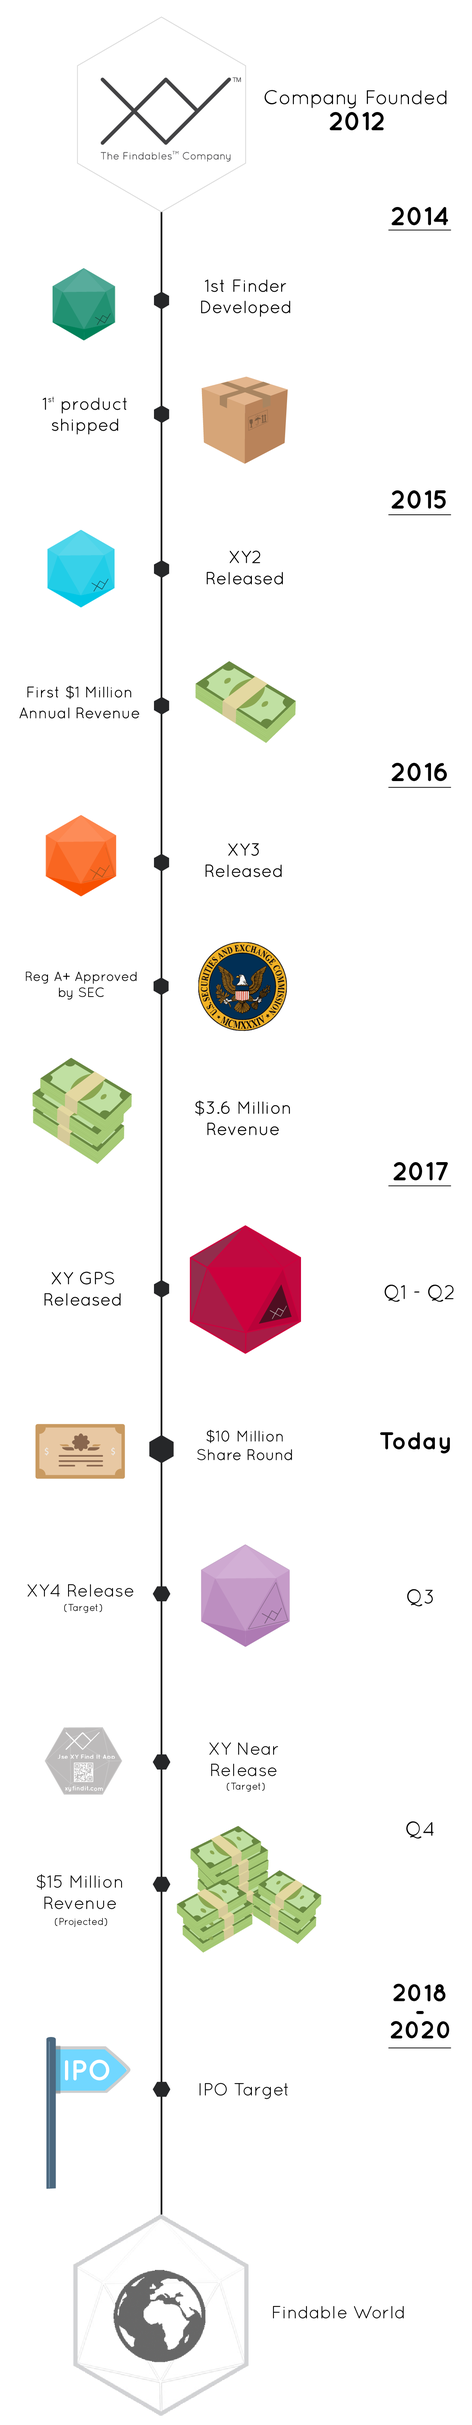
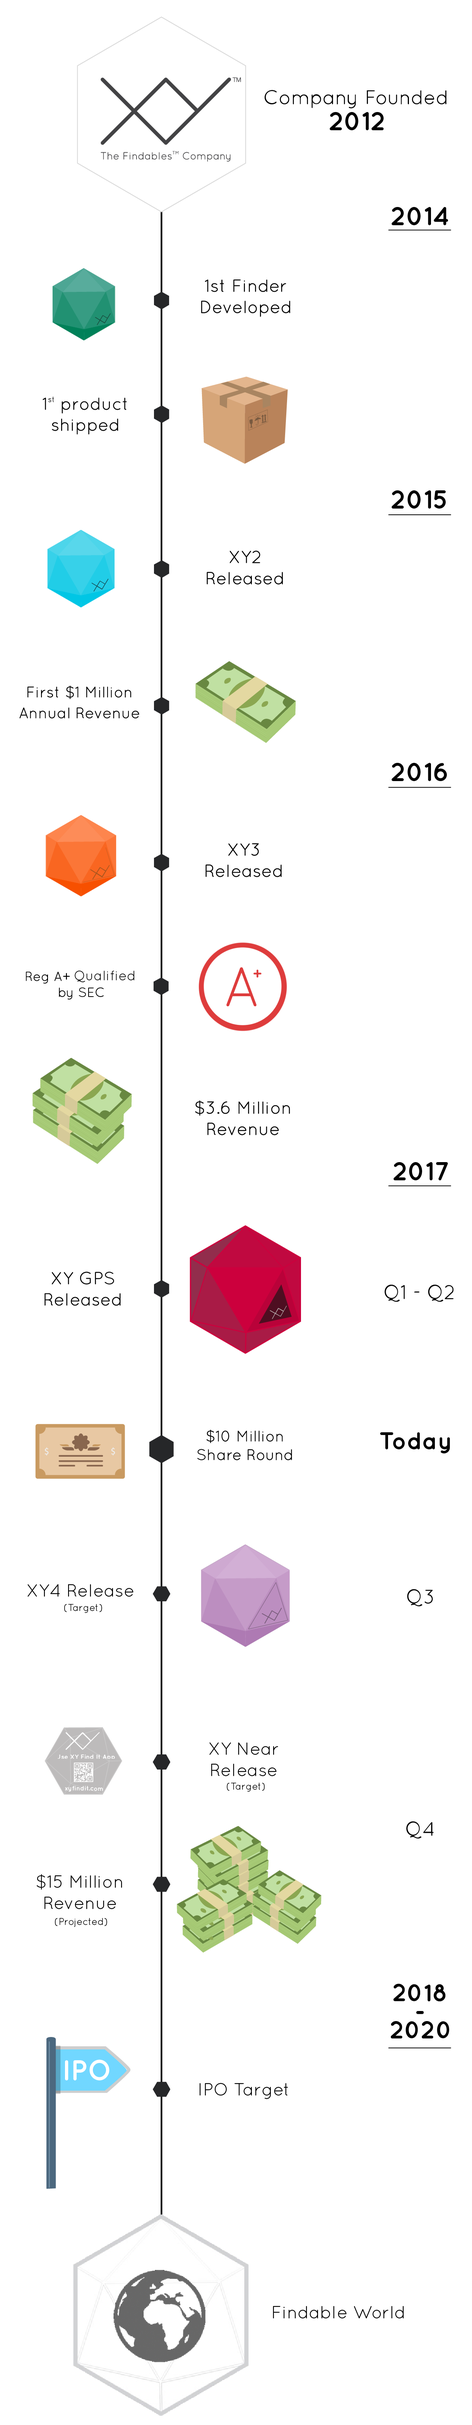
SEC compliance

Changed region(s): [[0.4049, 0.374, 0.623, 0.4364]]

diff --git a/our-story/index.html b/our-story/index.html
@@ -1,4 +1,4 @@
-<html>
+<html>
 
 <head>
     <meta charset="utf-8">
@@ -9,7 +9,7 @@
     <meta name="description" content="Read the XY The Findables Company success story today and invest!">
     <meta property="og:url" content="https://www.xyfindables.com/our-story/">
     <meta property="og:title" content="Get the story on XY The Findables Company: San Diego Grown and Now Ready For Investment!">
-    <meta property="og:description" content="Learn about the success story of XY The Findables Company: born and raised in San Diego, Findables Market leader, SEC Approved, and ready now for your Investment. When you invest, you get the chance to join a growing tech company on its journey to IPO.">
+    <meta property="og:description" content="Learn about the success story of XY The Findables Company: born and raised in San Diego, Findables Market leader, SEC qualified, and ready now for your Investment. When you invest, you get the chance to join a growing tech company on its journey to IPO.">
     <meta property="og:image" content="https://www.xyfindables.com/img/share/share_img.jpg">
     <meta property="fb:app_id" content="753748267978472" />
 
@@ -327,7 +327,7 @@
                     <div id="storycontent" style="display:none;">
                         <h1 style="margin-top:0px; !important; ">Our Story</h1>
                         <hr>
-                        <div style="line-height:30px; font-size: 15px;">
+                        <div style="line-height:30px; font-size: 17px;">
                             <p>
                                 <span class="bold">XY Findables</span> is a technology startup in downtown San Diego, California. We released our first product, the XY Find It, three years ago on Kickstarter, and it was a
                                 <span class="bold">HUGE</span> success! We raised over $200,000 and were one of the most popular for the year. The first year of manufacturing, we did
@@ -338,22 +338,18 @@
                             <p style="padding-top:7px;"> Now we’re on our third generation XY3, and we just expanded our product line to include the XY GPS, a tracking device that can find the things you love around the world. We’re projected to do
                                 <span class="bold">$15 million</span> in revenue this year alone. We want to keep expanding and developing our product line, so we took the next step: investments.
                             </p>
-                            <p style="padding-top:7px;"> We’re in our growth phase and it’s time for us to find investors. Here’s where you come in! Normally, startups are legally required to go to millionaires, like Mark Cuban or Bill Gates. It wasn’t fair, because the everyday
-                                person wasn’t able to invest! However, startups who are approved by the government, can sell pre-public stock to the everyday investor. We’ve been approved by the
-                                <span class="bold">SEC</span>, the government agency that regulates all publicly traded companies, like Facebook, Snapchat, and Twitter. Now, we can begin selling mini-IPO shares to <span class="bold">everyone</span>, and
-                                we are excited to become a customer-owned company. We hope to go public in the next 2-3 years, and you can help it.
+                            <p style="padding-top:7px;"> We’re in our growth phase and it’s time for us to find investors. Here’s where you come in! Normally, startups go to millionaires like Mark Cuban or Bill Gates. It wasn’t fair, because the everyday
+                                person wasn’t able to get in and invest! However, startups who are qualified by the government can sell pre-public stock to the everyday investor. We’ve been qualified by the
+                                <span class="bold">SEC</span>, the government agency that regulates all publicly traded companies, and we are now able to sell mini-IPO shares to <span class="bold">everyone</span>. We are excited to become a customer-owned company and hope to go public in the next 2-3 years with your help.
                             </p>
                         </div>
                     </div>
 
                     <div id="timelinecontent" style="display:none;">
                         <h1 style="margin-top:0px; !important">Company Timeline</h1>
-
-                        <div class="col-sm-12" style="padding-left:0px !important;">
                             <hr>
-                        </div>
 
-                        <p> Our company has been growing in San Diego since 2012, and from the very first day, our goal has been to make the world findable. Check out our progression below, from founding to xy1 to our future goal of IPO. Our journey has been
+                        <p style="font-size:17px; line-height:30px;"> Our company has been growing in San Diego since 2012, and from the very first day, our goal has been to make the world findable. Check out our progression below, from founding to xy1 to our future goal of IPO. Our journey has been
                             incredible so far, and we'd love to have you join us as we move towards a mutually profitable and rewarding finish line.
                         </p>
 

diff --git a/offering/index.html b/offering/index.html
@@ -8,8 +8,8 @@
     <meta name="viewport" content="width=device-width, initial-scale=1">
     <meta name="description" content="See the SEC's XY Findables Filing for Investment!">
     <meta property="og:url" content="https://www.xyfindables.com/offering/">
-    <meta property="og:title" content="XY The Findables Company is now SEC Certified and ready for Reg A+ certified! Learn More!">
-    <meta property="og:description" content="Our company has been approved by the U.S. Securities and Exchange Commision and is now ready for Pre-IPO Investment! You can join the team and get in early and journey with us to IPO! Click the link to learn more!">
+    <meta property="og:title" content="XY The Findables Company is now SEC Qualified and ready for Reg A+ Investments! Learn More!">
+    <meta property="og:description" content="Our company has been qualified by the U.S. Securities and Exchange Commision and is now ready for Pre-IPO Investment! You can join the team and get in early and journey with us to IPO! Click the link to learn more!">
     <meta property="og:image" content="https://www.xyfindables.com/img/share/share_img.jpg">
     <meta property="fb:app_id" content="753748267978472" />
 
@@ -236,25 +236,24 @@
 
         <div class="container">
             <div class="row">
-                <div class="col-md-3 col-sm-12 shortcut" style="margin-top:23px;">
-                    <img src="/img/sec_seal.png" style="width:225px;">
+              <div class="col-md-3 col-sm-12 shortcut" style="margin-top:23px;">
+                    <img src="/img/xy_seal.png" style="width:225px;">
                 </div>
-                <div class="col-sm-12 col-md-9" style="font-size:16px;">
+                <div class="col-sm-12 col-md-9" style="font-size:16px; line-height:26px;">
                     <div class="col-xs-12" style="margin: 0px 0 10px 0; padding-left:0px; !important">
                         <h1 style="font-size:2.5em; margin-top:10px; margin-bottom:3px;">SEC Filing and Documentation</h1>
                         <div class="col-sm-12" style="padding-left:0px; !important">
                             <hr>
                         </div>
                     </div>
-                    <p>The SEC (Securities and Exchange Commission) is the government agency that regulates the stock market and protects investors to make sure their money is safe. They're the same agency that approved Google, Facebook,
-                        Tesla, Snapchat, and all the biggest companies in the US to go public and sell their stock.
+                    <p>The SEC (Securities and Exchange Commission) is the government agency that regulates the stock market and protects investors to keep their money safe. They also qualify US companies to go public and sell their stock.
                     </p>
-                    <p style="padding-top:5px">Out of all the startups nationwide, XY Findables was selected for an exemption by the SEC and was granted Regulation A approval. Typically, you have to be a millionaire to invest in startups. Up until this point, typically only millionaires invested in these types of deals, but now you can too.
+                    <p style="padding-top:5px">XY Findables was granted Regulation A+ qualification by the SEC, opening the door for public Pre-IPO investments. Up until this point, typically only millionaires invested in these types of deals, but now you can too.
                     </p>
                 </div>
             </div>
 
-            <hr style="margin-top:50px;">
+            <hr style="margin-top:40px;">
 
             <div class="row">
                 <div class="col-sm-12" style="margin-top:20px;">
@@ -307,8 +306,8 @@
             <div class "row">
                 <div class="col-sm-12">
                     <h1 style="font-size: 2.5em; margin-top:30px; margin-bottom:30px; text-align:center;"> Importance</h1>
-                    <p style="font-size:1.15em; line-height: 28px;"> SEC exemption is a huge game-changer. It's now anyone's opportunity to invest in a startup at this stage, and people everywhere are trying to get in before it's too late. The SEC approved our financials, and verified our business.
-                        Now, we can sell our stock to anyone, and it's your chance to invest like the millionaires.
+                    <p style="font-size:1.15em; line-height: 28px;"> SEC qualification is a huge game-changer. Our business and financials were reviewed, and we've been qualified for Pre-IPO investment. It's now anyone's opportunity to invest in a startup at this stage, and people everywhere are trying to get in before it's too late. 
+                        It's now your chance to invest like the millionaires.
                     </p>
                 </div>
             </div>
@@ -328,7 +327,7 @@
             </div>
 
             <div class="col-sm-12 text-center">
-                <hr style="padding: 40px;">
+                <hr style="margin-top: 40px; margin-bottom:30px;">
             </div>
 
 

diff --git a/sec/index.html b/sec/index.html
@@ -7,7 +7,7 @@
     <title>Our Story | XY - The Findables Company™</title>
     <meta name="viewport" content="width=device-width, initial-scale=1">
     <meta name="description" content="Invest in XY The Findables Company today!">
-    <meta property="og:title" content="Join the movement and invest in XY The Findables Company - now Reg A+ certified! ">
+    <meta property="og:title" content="Join the movement and invest in XY The Findables Company - now Reg A+ qualified! ">
     <meta property="og:description" content="XY Findables is going above and beyond by expanding its focus on customer experience and involvement. With past success in crowdfunding, a diverse sales channel mix, and a loyal consumer base, the next step
      for Findables has arrived in the form of direct investment. Now, you can get an even stronger hand in defining the future of Findables even before we go public! Visit our website to learn more!">
     <meta property="og:image" content="https://www.xyfindables.com/img/share/share_img.jpg">
@@ -184,16 +184,16 @@
         <div class="container">
             <div class="row">
                 <div class="col-sm-12" style="font-size:16px;">
-                    <p>The SEC (Securities and Exchange Commission) is the government agency that regulates the stock market and protects investors to make sure their money is safe. They're the same agency that approved Google, Facebook,
-                        Tesla, Snapchat, and all the biggest companies in the US to go public and sell their stock.
+                    <p>
+                        The SEC (Securities and Exchange Commission) is the government agency that regulates the stock market and protects investors to keep their money safe. They also qualify US companies to go public and sell their stock.
                     </p>
-                    <p style="padding-top:5px">Out of all the startups nationwide, XY Findables was selected for an exemption by the SEC and was granted Regulation A approval. Typically, you have to be a millionaire to invest in startups. It's actually illegal for anyone who isn't
-                        a millionaire to invest in these deals that can change your life forever.
+                    <p style="padding-top:5px">
+                        XY Findables was granted Regulation A+ qualification by the SEC, opening the door for public Pre-IPO investments. Up until this point, typically only millionaires invested in these types of deals, but now you can too.
                     </p>
-                    <p style="padding-top:5px">That's why the SEC exemption is such a game-changer. It's now anyone's opportunity to invest in a startup at this stage and people are freaking out everywhere to get in on our investment. Because the SEC granted us the exception to
+                   <!-- <p style="padding-top:5px">That's why the SEC exemption is such a game-changer. It's now anyone's opportunity to invest in a startup at this stage and people are freaking out everywhere to get in on our investment. Because the SEC granted us the exception to
                         the rules, they said we're so special we can sell our stock to anyone. They went through our books, they went through our business, they looked into and verified absolutely everything and then decided our company was so solid everyone
                         can invest in it. Not just the millionaires.
-                    </p>
+                    </p>-->
                 </div>
             </div>
 

diff --git a/index.html b/index.html
@@ -9,7 +9,7 @@
     <title>XY - The Findables Company™</title>
     <meta name="viewport" content="width=device-width, initial-scale=1">
     <meta name="description" content="Invest in XY The Findables Company today!">
-    <meta property="og:title" content="Join the movement and invest in XY The Findables Company - now Reg A+ certified! ">
+    <meta property="og:title" content="Join the movement and invest in XY The Findables Company - now Reg A+ qualified! ">
     <meta property="og:url" content="https://www.xyfindables.com">
     <meta property="og:description" content="Invest today and get in on XY The Findables Company's journey to IPO! With past success in crowdfunding, a diverse sales channel mix, and a loyal consumer base, the next step
      for Findables has arrived in the form of direct investment. Visit our website to learn more!">
@@ -589,9 +589,9 @@
         <div class="row" style="padding-top: 20px;">
             <div class="col-sm-12 text-center">
                 <h1 style="padding-bottom: 20px;"> The Investment Opportunity </h1>
-                <div class="pstyle" style="font-size: 16pxfnas; ">
+                <div class="pstyle" style="font-size: 17px; ">
                     <p> XY Findables is a startup in California with a mission to make everything in the world findable. As we've developed our technology and user base, we've entered into a major growth phase. Now, it's time for us to find investors. </p>
-                    <p style="padding-top:10px;"> We've been approved by the SEC to begin selling pre-IPO shares, and we are currently in live offering mode accepting Title IV investments. We are excited to become a customer-owned company, and our goal is to IPO in the next 2-4 years.
+                    <p style="padding-top:10px;"> We've been qualified by the SEC to begin selling pre-IPO shares, and we are currently in live offering mode accepting Title IV investments. We are excited to become a customer-owned company, and our goal is to IPO in the next 2-4 years.
                         Your investment will help us achieve this and also put in you perfect position to profit when that happens. </p>
                 </div>
             </div>
@@ -614,9 +614,9 @@
         <div class="row">
             <div class="col-sm-12 text-center">
                 <h1 style="padding-bottom:20px;"> Why invest? </h1>
-                <div class="pstyle" style="font-size: 16px;">
-                    <p> Normally, startups are legally required to go to millionaires, like Mark Cuban or Bill Gates. It wasn’t fair, because the everyday person wasn’t able to invest! However, startups who are approved by the SEC can sell pre-IPO stock to
-                        the everyday investor. This means anyone can get potentially 1000% returns. Now’s your chance to get in.
+                <div class="pstyle" style="font-size: 17px;">
+                    <p> Normally, startup investments go to millionaires, like Mark Cuban or Bill Gates. It wasn’t fair, because the everyday person wasn’t able to get in! However, startups who are qualified by the SEC can sell pre-IPO stock to
+                        virtually any potential investor. This means anyone can get potentially 1000% returns. Now’s your chance to get in.
                 </div>
             </div>
         </div>

diff --git a/faq/index.html b/faq/index.html
@@ -1,4 +1,4 @@
-<html>
+<html>
 
 <head>
     <meta charset="utf-8">
@@ -8,8 +8,8 @@
     <meta name="viewport" content="width=device-width, initial-scale=1">
     <meta name="description" content="Learn more about our Reg A+ Pre IPO investment today!">
     <meta property="og:url" content="https://www.xyfindables.com/">
-    <meta property="og:title" content="Learn more about how you can invest in XY The Findables Company today - now Reg A+ certified! ">
-    <meta property="og:description" content="Check out our FAQ page and learn more about investing in XY The Findables Company! We are SEC Approved for Reg A+ investment, and we’d love to have you onboard for our journey to IPO! ">
+    <meta property="og:title" content="Learn more about how you can invest in XY The Findables Company today - now Reg A+ qualified! ">
+    <meta property="og:description" content="Check out our FAQ page and learn more about investing in XY The Findables Company! We are SEC qualified for Reg A+ investment, and we’d love to have you onboard for our journey to IPO! ">
     <meta property="og:image" content="https://www.xyfindables.com/img/share/share_img.jpg">
     <meta property="fb:app_id" content="753748267978472" />
 
@@ -123,6 +123,10 @@
 
         .gps-banner {
             background-color: #e8e8e7
+        }
+
+        h3 .answer {
+            line-height: 28px
         }
 
         .gps-banner img {

diff --git a/market/index.html b/market/index.html
@@ -1,4 +1,4 @@
-<html>
+<html>
 
 <head>
     <meta charset="utf-8">
@@ -9,7 +9,7 @@
     <meta name="description" content="Learn About and Invest In the Findables Market with XY The Findables Company!">
     <meta property="og:url" content="https://www.xyfindables.com/market/">
     <meta property="og:title" content="Learn About the Findables Market and how XY The Findables Company is paving the way with Pre IPO Investment!">
-    <meta property="og:description" content="The Findables Market is growing, and now is your chance to get in and get big rewards! Learn about how XY The Findables Company pioneering the industry with SEC certified, Reg A+, Pre-IPO investments and is introducing the world to Findables.">
+    <meta property="og:description" content="The Findables Market is growing, and now is your chance to get in and get big rewards! Learn about how XY The Findables Company pioneering the industry with SEC qualified, Reg A+, Pre-IPO investments and is introducing the world to Findables.">
     <meta property="og:image" content="https://www.xyfindables.com/img/share/share_img.jpg">
     <meta property="fb:app_id" content="753748267978472" />
 

diff --git a/market/archive.html b/market/archive.html
@@ -1,4 +1,4 @@
-<html>
+<html>
 
 <head>
     <meta charset="utf-8">
@@ -7,7 +7,7 @@
     <title>The Findables Market | XY - The Findables Company™</title>
     <meta name="viewport" content="width=device-width, initial-scale=1">
     <meta name="description" content="Invest in XY The Findables Company today!">
-    <meta property="og:title" content="Join the movement and invest in XY The Findables Company - now Reg A+ certified! ">
+    <meta property="og:title" content="Join the movement and invest in XY The Findables Company - now Reg A+ qualified! ">
     <meta property="og:description" content="XY Findables is going above and beyond by expanding its focus on customer experience and involvement. With past success in crowdfunding, a diverse sales channel mix, and a loyal consumer base, the next step
      for Findables has arrived in the form of direct investment. Now, you can get an even stronger hand in defining the future of Findables even before we go public! Visit our website to learn more!">
     <meta property="og:image" content="https://www.xyfindables.com/img/share/share_img.jpg">

diff --git a/404.html b/404.html
@@ -1,4 +1,4 @@
-<html>
+<html>
 
 <head>
     <meta charset="utf-8">
@@ -7,7 +7,7 @@
     <title>404 Error | XY - The Findables Company™</title>
     <meta name="viewport" content="width=device-width, initial-scale=1">
     <meta name="description" content="Invest in XY The Findables Company today!">
-    <meta property="og:title" content="Join the movement and invest in XY The Findables Company - now Reg A+ certified! ">
+    <meta property="og:title" content="Join the movement and invest in XY The Findables Company - now Reg A+ qualified! ">
     <meta property="og:description" content="XY Findables is going above and beyond by expanding its focus on customer experience and involvement. With past success in crowdfunding, a diverse sales channel mix, and a loyal consumer base, the next step
      for Findables has arrived in the form of direct investment. Now, you can get an even stronger hand in defining the future of Findables even before we go public! Visit our website to learn more!">
     <meta property="og:image" content="https://www.xyfindables.com/img/share/share_img.jpg">

diff --git a/our-story/company-timeline/index.html b/our-story/company-timeline/index.html
@@ -1,4 +1,4 @@
-<html>
+<html>
 
 <head>
     <meta charset="utf-8">
@@ -7,7 +7,7 @@
     <title>Our Story | XY - The Findables Company™</title>
     <meta name="viewport" content="width=device-width, initial-scale=1">
     <meta name="description" content="Invest in XY The Findables Company today!">
-    <meta property="og:title" content="Join the movement and invest in XY The Findables Company - now Reg A+ certified! ">
+    <meta property="og:title" content="Join the movement and invest in XY The Findables Company - now Reg A+ qualified! ">
     <meta property="og:description" content="XY Findables is going above and beyond by expanding its focus on customer experience and involvement. With past success in crowdfunding, a diverse sales channel mix, and a loyal consumer base, the next step
      for Findables has arrived in the form of direct investment. Now, you can get an even stronger hand in defining the future of Findables even before we go public! Visit our website to learn more!">
     <meta property="og:image" content="https://www.xyfindables.com/img/share/share_img.jpg">

diff --git a/our-story/the-story/index.html b/our-story/the-story/index.html
@@ -1,4 +1,4 @@
-<html>
+<html>
 
 <head>
     <meta charset="utf-8">
@@ -7,7 +7,7 @@
     <title>Our Story | XY - The Findables Company™</title>
     <meta name="viewport" content="width=device-width, initial-scale=1">
     <meta name="description" content="Invest in XY The Findables Company today!">
-    <meta property="og:title" content="Join the movement and invest in XY The Findables Company - now Reg A+ certified! ">
+    <meta property="og:title" content="Join the movement and invest in XY The Findables Company - now Reg A+ qualified! ">
     <meta property="og:description" content="XY Findables is going above and beyond by expanding its focus on customer experience and involvement. With past success in crowdfunding, a diverse sales channel mix, and a loyal consumer base, the next step
      for Findables has arrived in the form of direct investment. Now, you can get an even stronger hand in defining the future of Findables even before we go public! Visit our website to learn more!">
     <meta property="og:image" content="https://www.xyfindables.com/img/share/share_img.jpg">

diff --git a/branding/index.html b/branding/index.html
@@ -1,4 +1,4 @@
-<html>
+<html>
 
 <head>
     <meta charset="utf-8">
@@ -7,7 +7,7 @@
     <title>Branding | XY - The Findables Company™</title>
     <meta name="viewport" content="width=device-width, initial-scale=1">
     <meta name="description" content="Invest in XY The Findables Company today!">
-    <meta property="og:title" content="Join the movement and invest in XY The Findables Company - now Reg A+ certified! ">
+    <meta property="og:title" content="Join the movement and invest in XY The Findables Company - now Reg A+ qualified! ">
     <meta property="og:description" content="XY Findables is going above and beyond by expanding its focus on customer experience and involvement. With past success in crowdfunding, a diverse sales channel mix, and a loyal consumer base, the next step
      for Findables has arrived in the form of direct investment. Now, you can get an even stronger hand in defining the future of Findables even before we go public! Visit our website to learn more!">
     <meta property="og:image" content="https://www.xyfindables.com/img/share/share_img.jpg">

diff --git a/contact-us/index.html b/contact-us/index.html
@@ -1,4 +1,4 @@
-
+
 <html>
 
 <head>
@@ -9,7 +9,7 @@
     <meta name="viewport" content="width=device-width, initial-scale=1">
     <meta name="description" content="Invest in XY The Findables Company today!">
     <meta property="og:url" content="https://www.xyfindables.com">
-    <meta property="og:title" content="Join the movement and invest in XY The Findables Company - now Reg A+ certified! ">
+    <meta property="og:title" content="Join the movement and invest in XY The Findables Company - now Reg A+ qualified! ">
     <meta property="og:description" content="XY Findables is going above and beyond by expanding its focus on customer experience and involvement. With past success in crowdfunding, a diverse sales channel mix, and a loyal consumer base, the next step
      for Findables has arrived in the form of direct investment. Now, you can get an even stronger hand in defining the future of Findables even before we go public! Visit our website to learn more!">
     <meta property="og:image" content="https://www.xyfindables.com/img/share/share_img.jpg">
